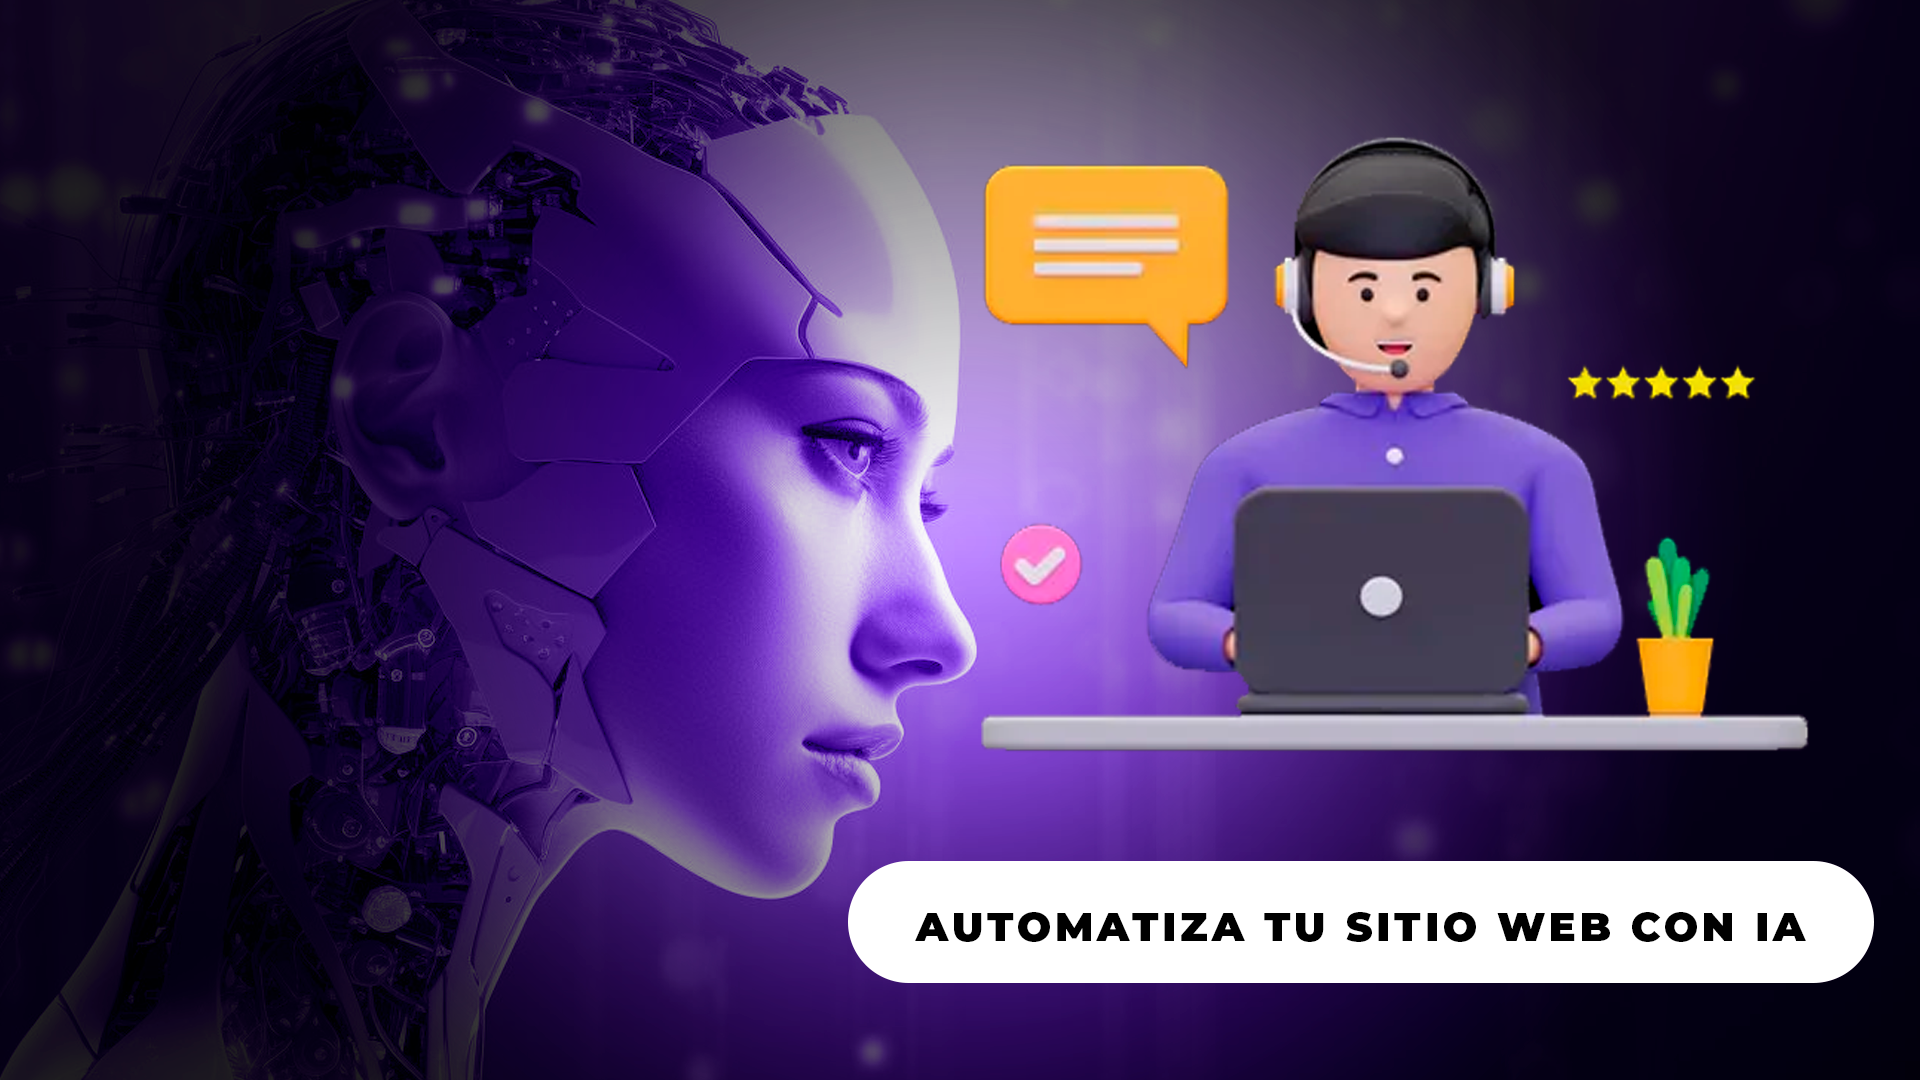
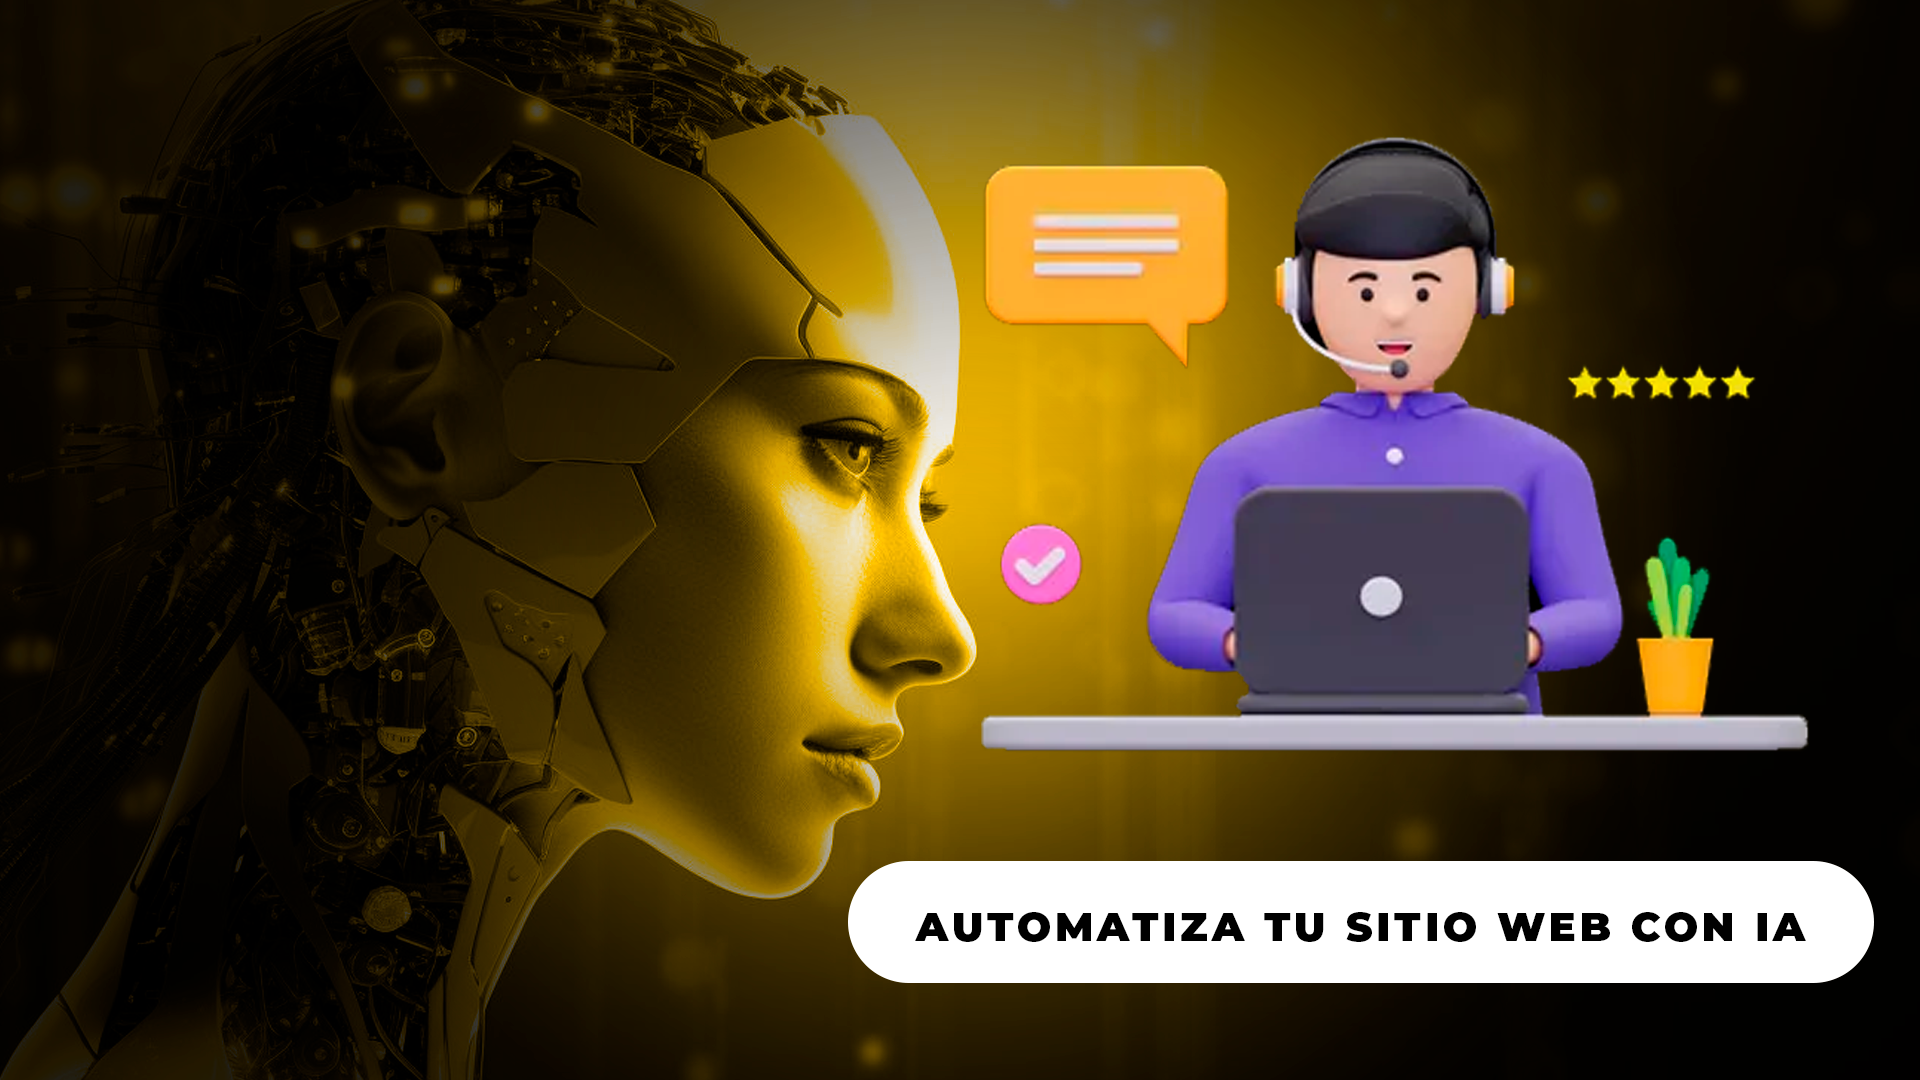
Add files via upload

diff --git a/index.html b/index.html
@@ -6,9 +6,9 @@
     <title>Vortex Studio</title>
     
     <!-- Favicon -->
-    <link rel="icon" type="image/x-icon" href="./favicon.ico">
-    <link rel="apple-touch-icon" sizes="180x180" href="./apple-touch-icon.png">
-    <link rel="icon" type="image/png" sizes="32x32" href="./Logo/VortexSudio3.png">
+    <link rel="icon" type="image/x-icon" href="./Logo/VortexSudio4.png">
+    <link rel="apple-touch-icon" sizes="180x180" href="./Logo/VortexSudio4.png">
+    <link rel="icon" type="image/png" sizes="32x32" href="./Logo/VortexSudio4.png">
     
     <!-- Bootstrap 5 CSS -->
     <link href="https://cdn.jsdelivr.net/npm/bootstrap@5.3.0/dist/css/bootstrap.min.css" rel="stylesheet">
@@ -25,7 +25,7 @@
     <nav class="navbar navbar-expand-lg navbar-dark">
         <div class="container">
             <a class="navbar-brand" href="#">
-                <img src="./Logo/VortexSudio.png" alt="DevSolutions Logo" height="30">
+                <img src="./Logo/VortexSudio.png" alt="VortexStudio Logo" height="30">
             </a>
             <button class="navbar-toggler" type="button" data-bs-toggle="collapse" data-bs-target="#navbarNav">
                 <span class="navbar-toggler-icon"></span>
@@ -135,21 +135,21 @@
                     </div>
                     <div class="carousel-inner rounded shadow">
                         <div class="carousel-item active">
-                            <img src="./Bienvenid@.png" class="d-block w-100" alt="Proyecto 1" style="width: 100%; object-fit: cover;">
+                            <img src="./Bienvenid@.png" class="d-block w-100" alt="Bienvenid@" style="width: 100%; object-fit: cover;">
                             <div class="carousel-caption d-none d-md-block text-start">
                                 <h3 style="font-size: 24px;"></h3>
                                 <p style="font-size: 15px;"></p>
                             </div>
                         </div>
                         <div class="carousel-item">
-                            <img src="./Oferta.png" class="d-block w-100" alt="Proyecto 2" style="width: 100%; object-fit: cover;">
+                            <img src="./Oferta.png" class="d-block w-100" alt="Oferta" style="width: 100%; object-fit: cover;">
                             <div class="carousel-caption d-none d-md-block">
                                 <h3></h3>
                                 <p></p>
                             </div>
                         </div>
                         <div class="carousel-item">
-                            <img src="./colaboración.png" class="d-block" alt="Proyecto 3" style="width: 100%; object-fit: cover;">
+                            <img src="./colaboración.png" class="d-block" alt="Colaboración" style="width: 100%; object-fit: cover;">
                             <div class="carousel-caption d-none d-md-block">
                                 <h3></h3>
                                 <p></p>
@@ -178,7 +178,7 @@
             <div class="row g-4">
                 <div class="col-md-4">
                     <div class="card project-card h-100">
-                        <img src="./web1.jpeg" class="card-img-top" alt="Landing de Pagos">
+                        <img src="./web1.jpeg" class="card-img-top" alt="Mantequilla Store">
                         <div class="card-body">
                             <h4 class="card-title">Mantequilla Store</h4>
                             <p class="card-text">
@@ -197,7 +197,7 @@
                 
                 <div class="col-md-4">
                     <div class="card project-card h-100">
-                        <img src="./web2.jpeg" class="card-img-top" alt="Plataforma de Suscripciones">
+                        <img src="./web2.jpeg" class="card-img-top" alt="Mantequilla Rides">
                         <div class="card-body">
                             <h4 class="card-title">Mantequilla Rides</h4>
                             <p class="card-text">Desarrollamos una página de aterrizaje optimizada para Mantequilla Ride, integrada directamente con su aplicación móvil, ofreciendo una transición fluida para los usuarios.</p>
@@ -215,7 +215,7 @@
                 
                 <div class="col-md-4">
                     <div class="card project-card h-100">
-                        <img src="./web3.jpeg" class="card-img-top" alt="Landing Crypto">
+                        <img src="./web3.jpeg" class="card-img-top" alt="Fundación Zoé">
                         <div class="card-body">
                             <h4 class="card-title">Fundación Zoé</h4>
                             <p class="card-text">Hemos creado una página de aterrizaje optimizada para Fundación Zoe, que facilita la donación directa a través de una integración segura con la pasarela de pago de PayPal. El diseño intuitivo permite a los usuarios realizar contribuciones de manera rápida y sencilla.</p>
@@ -236,7 +236,7 @@
 
       
       <!-- Contador Regresivo -->
-      <div class="countdown-section py-4 bg-primary text-white">
+      <div class="countdown-section py-4 bg-warning text-black">
         <div class="container">
             <div class="row justify-content-center">
                 <div class="col-md-8 text-center">
@@ -735,7 +735,7 @@
     
 
     <!-- Footer -->
-    <footer class="bg-dark text-white pt-5 pb-4">
+    <footer class="bg-primary text-white pt-5 pb-4">
         <div class="container">
             <div class="row">
                 <!-- Información de la Empresa -->
@@ -765,10 +765,10 @@
                 <div class="col-lg-3 mb-4">
                     <h5 class="mb-3">Servicios</h5>
                     <ul class="list-unstyled">
-                        <li class="mb-2"><i class="fas fa-check me-2 text-primary"></i>Desarrollo Web</li>
-                        <li class="mb-2"><i class="fas fa-check me-2 text-primary"></i>Apps Móviles</li>
-                        <li class="mb-2"><i class="fas fa-check me-2 text-primary"></i>Diseño UX/UI</li>
-                        <li class="mb-2"><i class="fas fa-check me-2 text-primary"></i>Marketing Digital</li>
+                        <li class="mb-2"><i class="fas fa-check me-2 text-white"></i>Desarrollo Web</li>
+                        <li class="mb-2"><i class="fas fa-check me-2 text-white"></i>Apps Móviles</li>
+                        <li class="mb-2"><i class="fas fa-check me-2 text-white"></i>Diseño UX/UI</li>
+                        <li class="mb-2"><i class="fas fa-check me-2 text-white"></i>Marketing Digital</li>
                     </ul>
                 </div>
 
@@ -776,10 +776,10 @@
                 <div class="col-lg-3 mb-4">
                     <h5 class="mb-3">Contacto</h5>
                     <ul class="list-unstyled">
-                        <li class="mb-2"><i class="fas fa-map-marker-alt me-2 text-primary"></i>Venezuela, Barquisimeto</li>
-                        <li class="mb-2"><i class="fas fa-phone me-2 text-primary"></i>+58 4245542026</li>
-                        <li class="mb-2"><i class="fas fa-envelope me-2 text-primary"></i>vortexstudioweb@gmail.com</li>
-                        <li class="mb-2"><i class="fas fa-clock me-2 text-primary"></i>Lun - Vie: 8:00 - 20:00</li>
+                        <li class="mb-2"><i class="fas fa-map-marker-alt me-2 text-white"></i>Venezuela, Barquisimeto</li>
+                        <li class="mb-2"><i class="fas fa-phone me-2 text-white"></i>+58 4245542026</li>
+                        <li class="mb-2"><i class="fas fa-envelope me-2 text-white"></i>vortexstudioweb@gmail.com</li>
+                        <li class="mb-2"><i class="fas fa-clock me-2 text-white"></i>Lun - Vie: 8:00 - 20:00</li>
                     </ul>
                 </div>
             </div>

diff --git a/styles.css b/styles.css
@@ -1,5 +1,5 @@
 :root {
-    --primary-color: #6c33da;
+    --primary-color: #383838;
     --accent-color: #fed70d;
     --white-color: #ffffff;
 }
